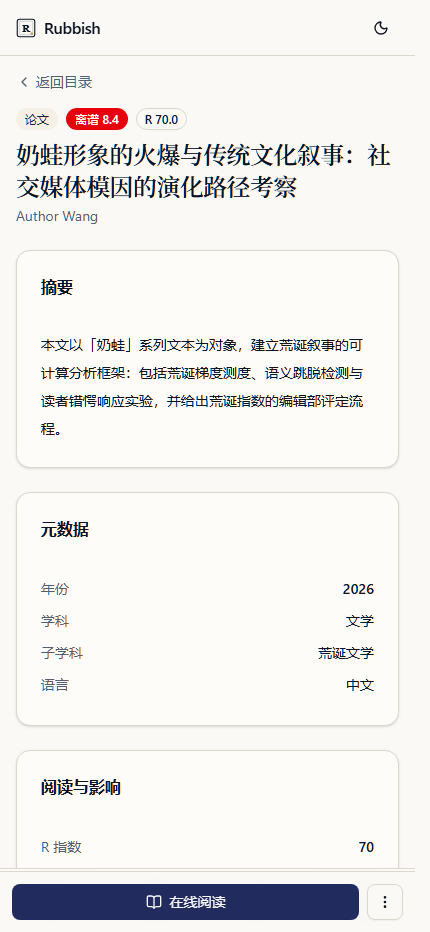
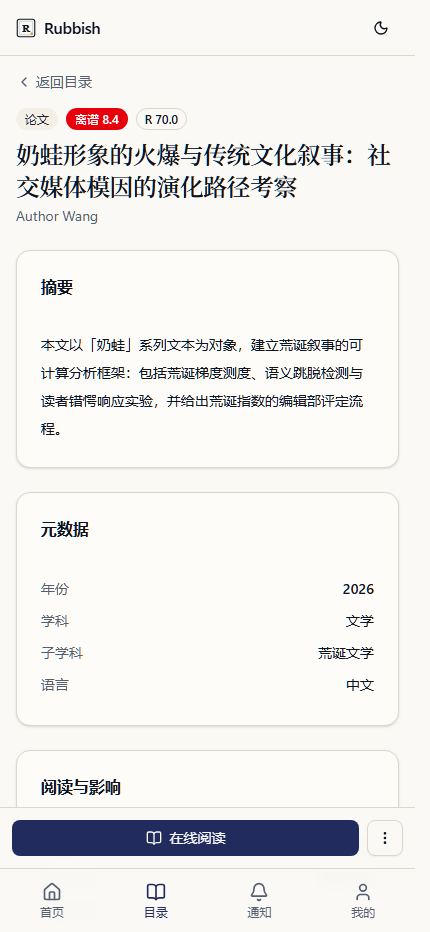
feat(settings): 账号设置页展示真实角色并接入导航；帮助中心角色说明补齐栏目编辑
- /settings 角色行由「管理员/普通用户」改为服务端下发的角色名列表
- 桌面用户菜单与移动「我的」抽屉新增「账号设置」入口
- help.html 角色说明从 5 类改为 5 角色 + 管理员，并说明各角色可见工作台
- 重新生成受影响的 15 张文档截图

Changed region(s): [[0.0302, 0.8712, 0.8767, 0.9957], [0.907, 0.8712, 0.9372, 0.9335]]

diff --git a/apps/frontend/src/routes/settings.tsx b/apps/frontend/src/routes/settings.tsx
@@ -14,6 +14,20 @@ export const Route = createFileRoute('/settings')({
   component: SettingsPage,
 })
 
+const ROLE_LABELS: Record<string, string> = {
+  reader: '读者',
+  author: '作者',
+  reviewer: '审稿人',
+  editor: '编辑',
+  section_editor: '栏目编辑',
+}
+
+function roleSummary(isAdmin?: boolean, roles?: string[]) {
+  const named = (roles ?? []).map((r) => ROLE_LABELS[r] ?? r)
+  if (isAdmin) named.unshift('管理员')
+  return named.length ? named.join('、') : '普通用户'
+}
+
 function SettingsPage() {
   const user = useAuthStore((s) => s.user)
 
@@ -31,9 +45,9 @@ function SettingsPage() {
             <span className="text-muted-foreground">用户名</span>
             <span className="font-medium">{user?.username ?? '—'}</span>
           </div>
-          <div className="flex justify-between">
+          <div className="flex justify-between gap-4">
             <span className="text-muted-foreground">角色</span>
-            <span className="font-medium">{user?.is_admin ? '管理员' : '普通用户'}</span>
+            <span className="text-right font-medium">{roleSummary(user?.is_admin, user?.roles)}</span>
           </div>
           <p className="pt-2 text-xs text-muted-foreground">
             修改密码请前往{' '}

diff --git a/apps/frontend/public/help.html b/apps/frontend/public/help.html
@@ -71,7 +71,7 @@
     </ol>
     <h3>登录</h3>
     <p>用 <strong>用户名</strong> + 密码登录。如果账号开启了双因素认证（TOTP），登录后还需输入验证器 App 里的 6 位动态码。</p>
-    <div class="tip">平台共有 5 种角色：读者、作者、审稿人、编辑、管理员。同一个账号可以拥有多个角色，实际能看到的菜单由角色决定。</div>
+    <div class="tip">平台的角色：读者、作者、审稿人、编辑、栏目编辑，管理员（is_admin）另算且拥有全部权限。同一账号可以拥有多个角色，实际能看到的菜单由角色决定：审稿人可见「审稿工作台」，编辑与栏目编辑可见「编辑工作台」，管理员额外可见「用户管理 / 审计日志」等站点管理项。</div>
   </section>
 
   <section id="author">

diff --git a/apps/frontend/src/components/layout/AppShell.tsx b/apps/frontend/src/components/layout/AppShell.tsx
@@ -21,6 +21,7 @@ import {
   Settings,
   ShieldCheck,
   TrendingUp,
+  User,
   Users,
   X,
 } from 'lucide-react'
@@ -279,6 +280,12 @@ export function AppShell() {
                 <DropdownMenuContent align="end">
                   <DropdownMenuLabel>{user.username}</DropdownMenuLabel>
                   <DropdownMenuSeparator />
+                  <DropdownMenuItem asChild>
+                    <Link to="/settings">
+                      <User className="h-4 w-4" />
+                      账号设置
+                    </Link>
+                  </DropdownMenuItem>
                   <DropdownMenuItem asChild>
                     <Link to="/account/security">
                       <ShieldCheck className="h-4 w-4" />

diff --git a/apps/frontend/src/components/layout/mobile-nav.ts b/apps/frontend/src/components/layout/mobile-nav.ts
@@ -62,6 +62,7 @@ export const MOBILE_MORE: MobileMoreItem[] = [
     roles: ['editor', 'section_editor'],
   },
   { to: '/ingest', label: '导入', icon: Upload },
+  { to: '/settings', label: '账号设置', icon: Settings },
   { to: '/account/security', label: '账号安全', icon: KeyRound },
   { to: '/admin/users', label: '用户管理', icon: Users, adminOnly: true },
   { to: '/admin/audit-logs', label: '审计日志', icon: ShieldCheck, adminOnly: true },

diff --git a/CHANGELOG.md b/CHANGELOG.md
@@ -30,6 +30,9 @@
 
 ### Changed
 
+- **账号设置页补齐**：`/settings` 此前只有 2FA，且没有任何导航入口；现在展示
+  真实角色列表（读者/作者/审稿人/编辑/栏目编辑/管理员），并从桌面用户菜单与
+  移动「我的」抽屉进入。帮助中心的角色说明同步为六类（含栏目编辑）。
 - **类型标签本地化**：目录/详情/阅读页/我的提交/审稿工作台此前直接显示后端
   枚举 `paper`，统一走 `typeLabel()` 显示「论文」。
 - **角色信息贯通**：`TokenResponse` 与 `/auth/me`、`/users/me` 增加 `roles`；
